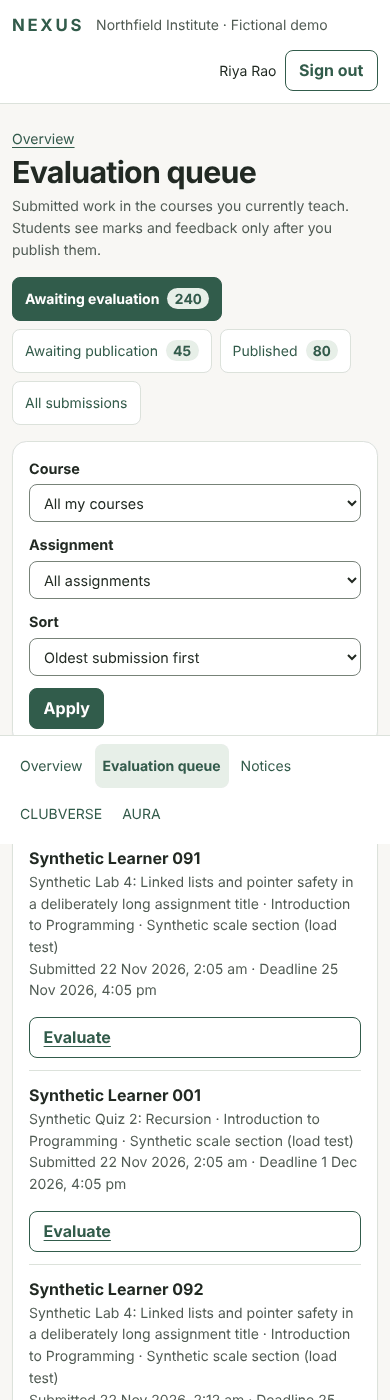
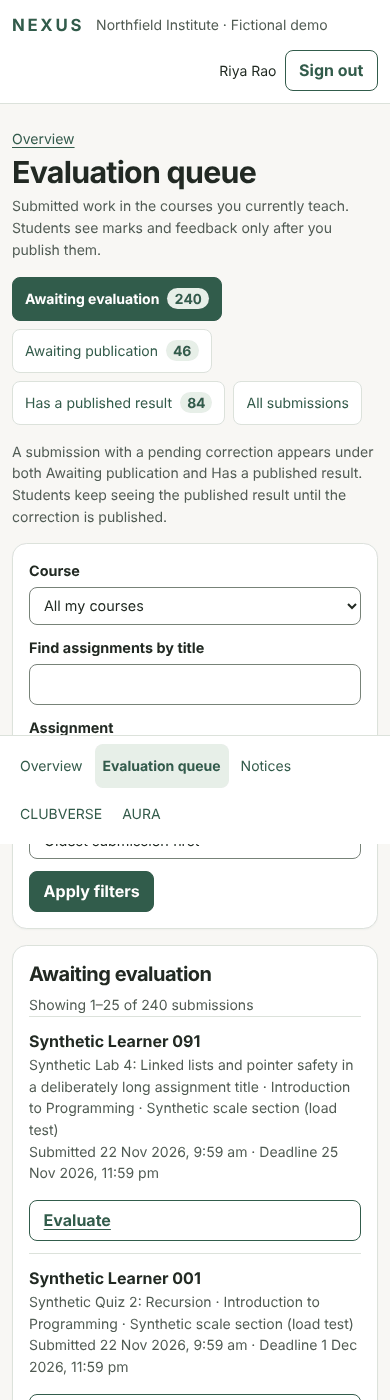
Make compact grading browser test portable and record follow-up verification
Load scripts/environment before reading database URLs, as the release
journeys do, so the test runs outside CI, and remove the test's fictional
learners and submissions afterwards. Record the local verification of
0f2e056, an automated WCAG A/AA scan of the faculty pages, refreshed
screenshots, and the current-term dependency.

Claude-Session: https://claude.ai/code/session_01Bxb4YCdiCMxcF1SCBS14xH

Changed region(s): [[0.0615, 0.5836, 0.8923, 1.0], [0.0308, 0.2457, 0.9538, 0.5221], [0.8923, 0.3993, 0.9231, 0.4914]]

diff --git a/tests/faculty.e2e.ts b/tests/faculty.e2e.ts
@@ -128,16 +128,39 @@ test("the evaluation queue rejects malformed filters without failing", async ({ 
 });
 
 test("compact assignment and searchable choices work on mobile with the keyboard", async ({ page }) => {
+  await import("../scripts/environment");
   const migrationUrl = process.env.MIGRATION_DATABASE_URL;
   if (!migrationUrl || !["127.0.0.1","localhost"].includes(new URL(migrationUrl).hostname)) {
     throw new Error("Local test database required.");
   }
   const { Client } = await import("pg");
-  const owner = new Client({ connectionString: migrationUrl });
-  await owner.connect();
+  const connect = async () => {
+    const client = new Client({ connectionString: migrationUrl });
+    await client.connect();
+    return client;
+  };
+  const owner = await connect();
   const token = randomUUID().slice(0,8);
   const title = `Compact workshop ${token}`;
-  let assignment: string;
+  let assignment = "";
+  // Remove this test's fictional rows so repeated local runs do not fill the demo faculty queue.
+  const cleanup = async () => {
+    const client = await connect();
+    try {
+      await client.query("BEGIN");
+      await client.query(`DELETE FROM attachment WHERE institution_id=$1 AND submission_id IN
+        (SELECT id FROM submission WHERE institution_id=$1 AND assignment_id=$2)`, [fixtures.institution, assignment]);
+      await client.query("DELETE FROM submission WHERE institution_id=$1 AND assignment_id=$2", [fixtures.institution, assignment]);
+      await client.query("DELETE FROM assignment WHERE institution_id=$1 AND id=$2", [fixtures.institution, assignment]);
+      await client.query(`DELETE FROM "user" WHERE id LIKE $1 AND email LIKE '%@nexus.example.invalid'`, [`${token}-%`]);
+      await client.query("COMMIT");
+    } catch (error) {
+      await client.query("ROLLBACK");
+      throw error;
+    } finally {
+      await client.end();
+    }
+  };
   try {
     const {rows:[record]} = await owner.query<{id:string}>(`INSERT INTO assignment
       (institution_id,offering_id,title,description,deadline,max_marks,published_at)
@@ -156,39 +179,43 @@ test("compact assignment and searchable choices work on mobile with the keyboard
     await owner.end();
   }
 
-  await page.setViewportSize({width:390,height:844});
-  await signIn(page,"faculty");
-  await page.goto(`/assignments/${assignment}?${workspace("faculty")}`);
-  await expect(page.getByText("Showing the first 20 submissions. Open the evaluation queue for all 23 submissions.")).toBeVisible();
-  await expect(page.getByRole("link", {name:/Evaluate submission by Fictional learner/})).toHaveCount(20);
-  await expect(page.getByText(/Private response/)).toHaveCount(0);
-  await expect(page.getByRole("link",{name:/\.txt$/})).toHaveCount(0);
-  expect(await page.evaluate(() => document.documentElement.scrollWidth)).toBe(390);
-
-  const first = page.getByRole("link",{name:"Evaluate submission by Fictional learner 1",exact:true});
-  await first.focus();
-  await page.keyboard.press("Enter");
-  await expect(page.getByText("Private response 1",{exact:true})).toBeVisible();
-  await expect(page.getByRole("link",{name:`${token}-1.txt`})).toBeVisible();
-  await expect(page.getByRole("link",{name:`${token}-2.txt`})).toHaveCount(0);
-
-  await page.getByRole("link",{name:"Open in evaluation queue"}).click();
-  const search = page.getByRole("searchbox",{name:"Find assignments by title"});
-  await search.focus();
-  await page.keyboard.press("Tab");
-  await expect(page.getByRole("combobox",{name:"Assignment",exact:true})).toBeFocused();
-  await search.fill(token);
-  await search.press("Enter");
-  await expect(page.getByRole("combobox",{name:"Assignment",exact:true})).toHaveValue(assignment);
-  await expect(page.getByRole("option",{name:new RegExp(title)})).toHaveCount(1);
-  await expect(page.getByRole("heading",{name:"Evaluation queue"})).toBeVisible();
-  for (const width of [360,390,768,1024,1440]) {
-    await page.setViewportSize({width,height:844});
-    expect(await page.evaluate(() => document.documentElement.scrollWidth)).toBe(width);
-  }
-  if (process.env.NEXUS_FACULTY_SCREENSHOTS) {
-    await page.screenshot({path:`${process.env.NEXUS_FACULTY_SCREENSHOTS}/queue-desktop.png`});
+  try {
     await page.setViewportSize({width:390,height:844});
-    await page.screenshot({path:`${process.env.NEXUS_FACULTY_SCREENSHOTS}/queue-mobile.png`});
+    await signIn(page,"faculty");
+    await page.goto(`/assignments/${assignment}?${workspace("faculty")}`);
+    await expect(page.getByText("Showing the first 20 submissions. Open the evaluation queue for all 23 submissions.")).toBeVisible();
+    await expect(page.getByRole("link", {name:/Evaluate submission by Fictional learner/})).toHaveCount(20);
+    await expect(page.getByText(/Private response/)).toHaveCount(0);
+    await expect(page.getByRole("link",{name:/\.txt$/})).toHaveCount(0);
+    expect(await page.evaluate(() => document.documentElement.scrollWidth)).toBe(390);
+
+    const first = page.getByRole("link",{name:"Evaluate submission by Fictional learner 1",exact:true});
+    await first.focus();
+    await page.keyboard.press("Enter");
+    await expect(page.getByText("Private response 1",{exact:true})).toBeVisible();
+    await expect(page.getByRole("link",{name:`${token}-1.txt`})).toBeVisible();
+    await expect(page.getByRole("link",{name:`${token}-2.txt`})).toHaveCount(0);
+
+    await page.getByRole("link",{name:"Open in evaluation queue"}).click();
+    const search = page.getByRole("searchbox",{name:"Find assignments by title"});
+    await search.focus();
+    await page.keyboard.press("Tab");
+    await expect(page.getByRole("combobox",{name:"Assignment",exact:true})).toBeFocused();
+    await search.fill(token);
+    await search.press("Enter");
+    await expect(page.getByRole("combobox",{name:"Assignment",exact:true})).toHaveValue(assignment);
+    await expect(page.getByRole("option",{name:new RegExp(title)})).toHaveCount(1);
+    await expect(page.getByRole("heading",{name:"Evaluation queue"})).toBeVisible();
+    for (const width of [360,390,768,1024,1440]) {
+      await page.setViewportSize({width,height:844});
+      expect(await page.evaluate(() => document.documentElement.scrollWidth)).toBe(width);
+    }
+    if (process.env.NEXUS_FACULTY_SCREENSHOTS) {
+      await page.screenshot({path:`${process.env.NEXUS_FACULTY_SCREENSHOTS}/queue-desktop.png`});
+      await page.setViewportSize({width:390,height:844});
+      await page.screenshot({path:`${process.env.NEXUS_FACULTY_SCREENSHOTS}/queue-mobile.png`});
+    }
+  } finally {
+    if (assignment) await cleanup();
   }
 });

diff --git a/docs/TEST_REPORT.md b/docs/TEST_REPORT.md
@@ -37,3 +37,9 @@ An independent review of the diff by a separate agent found no tenant or injecti
 Regression fixtures cover a 23-submission compact assignment, 205 higher-ranked unsubmitted drafts, and a title search with 28 results across two pages. Compact previews read bounded student names and status flags. The focused view reads only the selected submission and its attachment metadata alongside assignment instructions. Assignment options are filtered before pagination and retain an authorized selection outside the current results. Invalid and out-of-range queue pages offer explicit recovery without changing filters. A pending correction appears in both relevant queue tabs and leaves the student's published result visible until publication.
 
 Local PostgreSQL tests also verify that unrelated faculty and tenants cannot read the preview or picker records. The browser exercise covers keyboard focus and activation, mobile compact and focused grading, title-search selection, and queue widths from 360 to 1440 px. Broad filters still use count and offset pagination. No production-size query benchmark or assistive-technology audit was conducted.
+
+### Follow-up verification at 0f2e056
+
+GitHub CI passed for 0f2e056. Run locally against .env-configured PostgreSQL, the new compact-assignment browser test failed before reaching the application because it read `MIGRATION_DATABASE_URL` without loading `scripts/environment`, which CI's exported variables had masked. It now loads the environment like the release journeys, and it deletes its 23 fictional learners, submissions, attachments and assignment afterwards so repeated local runs do not fill the demo faculty queue; a query confirmed none remained. After the fix: lint, typecheck and build passed, 16 PostgreSQL tests and 11 Chromium tests passed.
+
+An automated axe-core 4.10 scan (WCAG 2.0–2.2 A/AA rules) of mission control, four queue states including title search and an invalid page, the focused grading view, the compact 210-submission list and the course page reported no violations at 1440×900 or 390×844. The same scanner flagged injected contrast and missing-label defects, confirming it ran. Automated rules cover a subset of WCAG; a screen-reader and keyboard audit by a person is still outstanding.

diff --git a/docs/DECISIONS.md b/docs/DECISIONS.md
@@ -6,6 +6,6 @@
 - Reject late submissions and permit one final submission in Release 1. Verify extension and resubmission requirements with the pilot before adding policy.
 - Preserve published grade versions while corrections are drafted and retain superseded draft revisions. Lock grade writes by submission and reject stale revision numbers.
 - Derive faculty evaluation states (awaiting evaluation, draft, correction, published) from the existing grade table in read-only queries. The grading engine stays the only writer, so the queue cannot disagree with recorded grades. Faculty scope comes from active faculty membership plus active faculty roster, never from the selected role alone. Co-instructors share one queue and one draft per submission.
-- Bound the evaluation queue with validated filters, 25-row offset pages and at most 1,000 pages. Count submissions from currently enrolled students separately from withdrawn students. Above 20 submissions the assignment page lists submissions and grades one at a time, because one form per submission does not scale. Revisit keyset pagination if measured queue sizes exceed a few thousand rows per faculty member.
+- Bound the evaluation queue with validated filters and 25-row offset pages. Invalid page numbers show an explicit recovery link instead of silently resetting. Assignment choices come from a title search with 25-row pages, not a full list. Count submissions from currently enrolled students separately from withdrawn students. Above 20 submissions the assignment page reads only the first 20 names and states and sends faculty to the queue, and the focused view reads only the selected submission, because one form per submission does not scale. Revisit keyset pagination if measured queue sizes exceed a few thousand rows per faculty member.
 - Omit fixed date windows such as "due this week" from faculty mission control until the pilot agrees their meaning; show the next five deadlines in order instead.
 - Target Vercel with managed PostgreSQL per the product owner's selection. Use a dedicated staging project and separate migration credentials.

diff --git a/docs/NEXUS_IMPLEMENTATION_DEPENDENCIES.md b/docs/NEXUS_IMPLEMENTATION_DEPENDENCIES.md
@@ -15,7 +15,7 @@ Guardian access (GU) has a separate policy gate in every wave. Only verified rel
 
 ## Coordination decisions
 
-Academic course workspaces are the next independent Wave 2 implementation because current catalog and roster already supply the authority. Venue booking remains the first proposed CLUBVERSE extension; see [slice designs](CLUBVERSE_NEXT_SLICES.md). Each can be reviewed separately from the hosted foundation. A future wave can have a previously tested prerequisite on a feature branch. This does not move that wave onto the release branch.
+Academic course workspaces are the next independent Wave 2 implementation because current catalog and roster already supply the authority. Venue booking remains the first proposed CLUBVERSE extension; see [slice designs](CLUBVERSE_NEXT_SLICES.md). Each can be reviewed separately from the hosted foundation. Faculty mission control and evaluation queues (FC-001, FC-011) are tested on feature/faculty-command-center and await review. Their counts cover every offering with an active faculty roster, so an institution-approved definition of the current academic term should precede wider faculty use; structured rubrics (FC-010) and the feedback-drafting assistant (AGFT-004) should follow faculty feedback on the queue. A future wave can have a previously tested prerequisite on a feature branch. This does not move that wave onto the release branch.
 
 Source vocabulary has changed over time. The original eight product domains describe subject areas. Later OS names describe user workspaces that cross those areas. Retain both views, with shared identity and records. A prototype name confers no evidence of a working implementation. Operational GPS, model suggestions and policy-sensitive disclosure retain explicit gates.
 

diff --git a/docs/PROGRESS.md b/docs/PROGRESS.md
@@ -14,3 +14,5 @@ November 22 delivery integration fast-forwarded experience → CLUBVERSE → det
 The registry now tracks 477 permanent IDs. Wave 2 course workspaces at 584c31c use the roster and scheme tables. Fictional-data Chromium journeys went from seven to eight passing tests. The institutional catalog directory, resources, attendance, timetable and faculty grading queue remain separate requirements. Course workspace code stays on its own branch.
 
 November 22 faculty command center (feature/faculty-command-center, separate from main): the faculty home now answers what needs attention from PostgreSQL records — submissions awaiting evaluation with the oldest waiting time, feedback drafts awaiting publication, unpublished assignments including ones whose deadline passed before publication, per-assignment submission and evaluation progress, and the next five deadlines. A new evaluation queue filters by status, course and assignment, sorts by submission age, deadline, student or publication time, and paginates. Each row opens one submission in the existing grading form with a link to the next one awaiting evaluation. No migration and no new write path. FC-001 and FC-011 are tested with fictional and labelled synthetic data; no faculty member has used them.
+
+Follow-up on PR #3: review corrections at 0f2e056 bounded the large-assignment and focused grading reads and added a searchable assignment picker. Local verification found and fixed a test that only worked with CI's environment and left fictional records in the demo course. An automated accessibility scan of the faculty pages found no violations. Faculty use, hosting and a current-term definition remain open.
